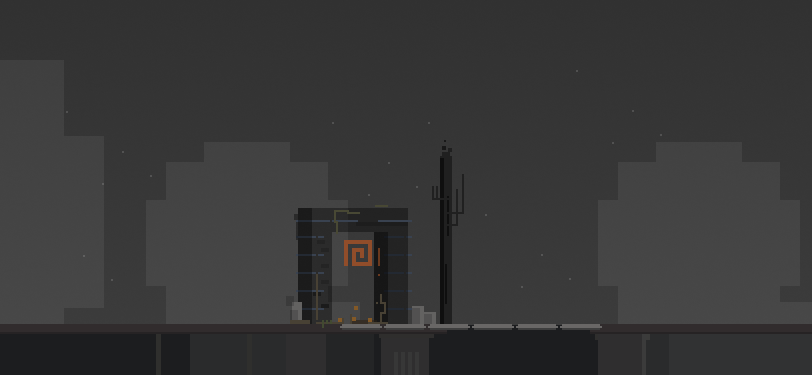
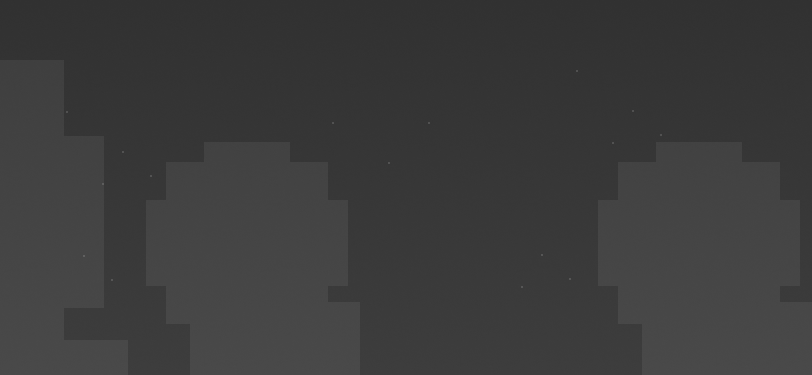
1

Changed region(s): [[0.0, 0.4107, 1.0, 1.0], [0.9544, 0.9973, 0.9852, 1.0], [0.8621, 0.9973, 0.8929, 1.0]]

diff --git a/classes/player.js b/classes/player.js
@@ -55,6 +55,7 @@ class PlayerCreate extends Phaser.GameObjects.Container
                 key: 'p1-idle',
                 frames: this.anims.generateFrameNumbers('p1-idle', { start: 0, end: 4 }),
                 frameRate: 6,
+                repeat: -1
             });
 
         //Death
@@ -105,51 +106,6 @@ class PlayerUpdate extends Phaser.GameObjects.Container
         this.platforms = config.scene.platforms;
         this.player = config.scene.player;
             
-            //Left  
-            if (keys.left.isDown && player.body.touching.down) 
-            {
-                player.setVelocityX(-240);
-                player.anims.play('p1-walk', true).setFlipX(true);
-            } 
-
-            else if (keys.left.isDown) 
-            {
-                player.setVelocityX(-240);
-                player.anims.play('p1-jump', true).setFlipX(true);
-            } 
-
-            //Right
-            else if (keys.right.isDown && player.body.touching.down) 
-            {
-                player.setVelocityX(240);
-                player.anims.play('p1-walk', true).setFlipX(false);
-            } 
-
-            else if (keys.right.isDown) 
-            {
-                player.setVelocityX(240);
-                player.anims.play('p1-jump', true).setFlipX(false);
-            }
-
-            //Down
-            else if (keys.down.isDown) 
-            {
-                player.setVelocityY(400);  
-                player.anims.play('p1-death', true); 
-            } 
-
-            //Mid air
-            else if (player.body.touching.down == false)
-            {
-                player.anims.play('p1-jump', true);
-            }
-
-            //Idle   
-            else 
-            {
-                player.setVelocityX(0);
-                player.anims.play('p1-idle', true);    
-            }
 
             //Attack
             playerW.x=player.x;
@@ -184,25 +140,6 @@ class PlayerUpdate extends Phaser.GameObjects.Container
                 playerW.setAlpha(0);
             }
 
-            //Jump
-            if (keys.up.isDown && player.body.touching.down) 
-            {
-                player.setVelocityY(-550);  
-            }
-
-            //Dash add timer
-            if(keys.right.isDown && keys.space.isDown)
-            {
-                player.setVelocityX(600);
-                player.anims.play('p1-jump', true).setFlipX(true);
-            }
-
-            else if (keys.left.isDown && keys.space.isDown)
-            {
-                player.setVelocityX(-600);
-                player.anims.play('p1-jump', true).setFlipX(false);
-            }
-
         if (Date.now() > lastHitTimeEnemy + 200 == true && playerHp > 5) 
         {
             player.clearTint()
@@ -210,33 +147,32 @@ class PlayerUpdate extends Phaser.GameObjects.Container
     }
 }
 
-//***** STATES *****
+//STATES
 //Idle state
 class IdleState extends State{
   
     enter(scene){
-        console.log(player);
         player.setVelocity(0);
-        player.anims.play(`walk-${player.direction}`);
-        player.anims.stop();
+        player.anims.play('p1-idle', true);        
     }
 
     execute(scene){
         const{left, right, up, down, space, shift} = keys;
 
-        // Transition to swing if pressing space
-        if (space.isDown){
-            this.stateMachine.transition('swing');
-            return;
-        }
-        // Transition to dash if pressing shift
-        if (shift.isDown){
+        // Transition to dash
+        if (space.isDown || space.isDown && left.isDown || space.isDown && right.down){
             this.stateMachine.transition('dash');
             return;
         }
-        // Transition to move if pressing a movement key
-        if (left.isDown || right.isDown || up.isDown || down.isDown){
+        // Transition to move
+        if (left.isDown || right.isDown ){
             this.stateMachine.transition('move');
+            return;
+        }
+
+        // Transition to jump
+        if (keys.up.isDown && player.body.touching.down){
+            this.stateMachine.transition('jump');
             return;
         }
     }
@@ -247,14 +183,8 @@ class MoveState extends State {
   execute(scene) {
     const {left, right, up, down, space, shift} = keys;
     
-    // Transition to swing if pressing space
-    if (space.isDown) {
-      this.stateMachine.transition('swing');
-      return;
-    }
-    
-    // Transition to dash if pressing shift
-    if (shift.isDown) {
+    // Transition to dash
+    if (space.isDown || space.isDown && left.isDown || space.isDown && right.down) {
       this.stateMachine.transition('dash');
       return;
     }
@@ -264,68 +194,80 @@ class MoveState extends State {
       this.stateMachine.transition('idle');
       return;
     }
-    
-    player.setVelocity(0);
-    if (up.isDown) {
-      player.setVelocityY(-100);
-      player.direction = 'up';
-    } else if (down.isDown) {
-      player.setVelocityY(100); 
-      player.direction = 'down';
-    }
-    if (left.isDown) {
-      player.setVelocityX(-100);
-      player.direction = 'left';
-    } else if (right.isDown) {
-      player.setVelocityX(100);
-      player.direction = 'right';
-    }
-    
-    // player.anims.play(`walk-${player.direction}`, true);
-  }
-}
 
-//Swing state
-class SwingState extends State {
-  enter(scene) {
-    player.setVelocity(0);
-    // player.anims.play(`swing-${player.direction}`);
-    player.once('animationcomplete', () => {
-      this.stateMachine.transition('idle');
-    });
+    // Transition to jump
+    if (keys.up.isDown && player.body.touching.down){
+        this.stateMachine.transition('jump');
+        return;
+    }
+    
+    if (left.isDown && player.body.touching.down) {
+        player.setVelocityX(-240);
+        player.direction = 'left';
+        player.anims.play('p1-walk', true).setFlipX(true);
+    } 
+
+    else if (right.isDown && player.body.touching.down) {
+        player.setVelocityX(240);
+        player.direction = 'right';
+        player.anims.play('p1-walk', true).setFlipX(false);
+    }
   }
 }
 
 //Dash state
 class DashState extends State {
   enter(scene) {
-    player.setVelocity(0);
-    // player.anims.play(`swing-${player.direction}`);
-    switch (player.direction) 
-    {
-        case 'up':
-            player.setVelocityY(-300);
-            break;
 
-        case 'down':
-            player.setVelocityY(300);
-            break;
-
-        case 'left':
-            player.setVelocityX(-300);
-            break;
-
-        case 'right':
-            player.setVelocityX(300);
-            break;
+    if(player.direction == 'left'){
+        player.setVelocityX(-600);
     }
 
+    else{
+        player.setVelocityX(600);
+    }
     
     // Wait a third of a second and then go back to idle
-    scene.time.delayedCall(300, () => {
+    scene.time.delayedCall(100, () => {
       this.stateMachine.transition('idle');
     });
   }
+}
+
+class JumpState extends State {
+    enter(scene) {
+    
+        if (keys.up.isDown && player.body.touching.down){
+            player.setVelocityY(-550);
+            player.anims.play('p1-jump', true);  
+        }  
+    }
+
+    execute(scene){
+        if(player.body.touching.down){
+            this.stateMachine.transition('idle');
+        } 
+
+        else if (keys.right.isDown) 
+            {
+                player.setVelocityX(200);
+                player.anims.play('p1-jump', true).setFlipX(false);
+                player.direction = 'right';
+            }
+
+        else if (keys.left.isDown) 
+        {
+            player.setVelocityX(-200);
+            player.anims.play('p1-jump', true).setFlipX(true);
+            player.direction = 'left';
+        }
+
+        else if (keys.down.isDown) 
+        {
+            player.setVelocityY(500);
+            player.anims.play('p1-jump', true);
+        }
+    }
 }
 
 
@@ -341,7 +283,10 @@ class DashState extends State {
 
 
 
-
+// //Delay transition to idle
+// scene.time.delayedCall(500, () => {     
+//     this.stateMachine.transition('idle');
+// });
 
 //Generate random number
 // setInterval(function(){
@@ -363,7 +308,6 @@ class DashState extends State {
 //         this.stateMachine = new StateMachine('idle', {
 //             idle: new IdleState(),
 //             move: new MoveState(),
-//             swing: new SwingState(),
 //             dash: new DashState(),
 //         },[this, this.player]);
 //   }

diff --git a/sceneMain.js b/sceneMain.js
@@ -5,6 +5,7 @@ class SceneMain extends Phaser.Scene {
     }
 
     preload() {
+        this.load.image('bg', 'assets/bg.png');
         new PlatformsPreload({scene:this}); 
         new PlayerPreload({scene:this}); 
         new EnemyPreload({scene:this}); 
@@ -12,6 +13,7 @@ class SceneMain extends Phaser.Scene {
 
     create() {     
     //Sprites
+        this.add.image(game.config.width/2, game.config.height/2, 'bg');
         this.platforms = new PlatformsCreate({scene:this});
         this.enemy = new EnemyCreate({scene:this}); 
         this.player = new PlayerCreate({scene:this});
@@ -20,8 +22,8 @@ class SceneMain extends Phaser.Scene {
         this.stateMachine = new StateMachine('idle', {
             idle: new IdleState(),
             move: new MoveState(),
-            swing: new SwingState(),
             dash: new DashState(),
+            jump: new JumpState(),
         },[this, this.player]);
 
     //Colliders
@@ -34,17 +36,25 @@ class SceneMain extends Phaser.Scene {
         keyAction2 = this.input.keyboard.addKey('Z');
 
     //HP text
-        playerHpText = this.add.text(20 ,20 ,'Start',{color:0xff0000});
+        playerHpText = this.add.text(20 ,20 ,'Start', {
+        fontSize: '24px',
+        fontFamily: 'Arial',
+        color: '#ffffff',
+        align: 'center',
+        lineSpacing: 44,
+      });
     }
 
     update() {
     //Movement
-        new EnemyUpdate({scene:this}); 
+        // new EnemyUpdate({scene:this}); 
         // new PlayerUpdate({scene:this});
 
         this.stateMachine.step();
     //HP text
-        playerHpText.setText('Player HP ' + playerHp + ' / ' + 'Enemy HP ' + enemyHp); 
+        // playerHpText.setText('Player HP ' + playerHp + ' / ' + 'Enemy HP ' + enemyHp + ' / ' + this.stateMachine.state); 
+
+        playerHpText.setText(this.stateMachine.state + ' / ' + player.direction);
     //End game
         if(playerHp < 1 || enemyHp < 1)
         {

diff --git a/classes/platforms.js b/classes/platforms.js
@@ -22,8 +22,9 @@ class PlatformsCreate extends Phaser.GameObjects.Container
         this.platforms = config.scene.platforms;
 
         platforms = this.physics.add.staticGroup();
-        platforms.create(game.config.width/2, 384, 'platform');
-        platforms.create(160, 352, 'platform-sm');
-        platforms.create(game.config.width/2, 240, 'platform-sm');
+        platforms.create(game.config.width/2, game.config.height - 48, 'platform');
+
+        // platforms.create(160, 352, 'platform-sm');
+        // platforms.create(game.config.width/2, 240, 'platform-sm');
     }
 };

diff --git a/main.js b/main.js
@@ -50,7 +50,7 @@ window.onload=function(){
             height: 375,
             backgroundColor: 0xffffff,
             pixelArt: true, //fix blurred pixels
-            zoom: 1,
+            zoom: 2,
             physics: {
                 default: "arcade",
                 arcade: {
